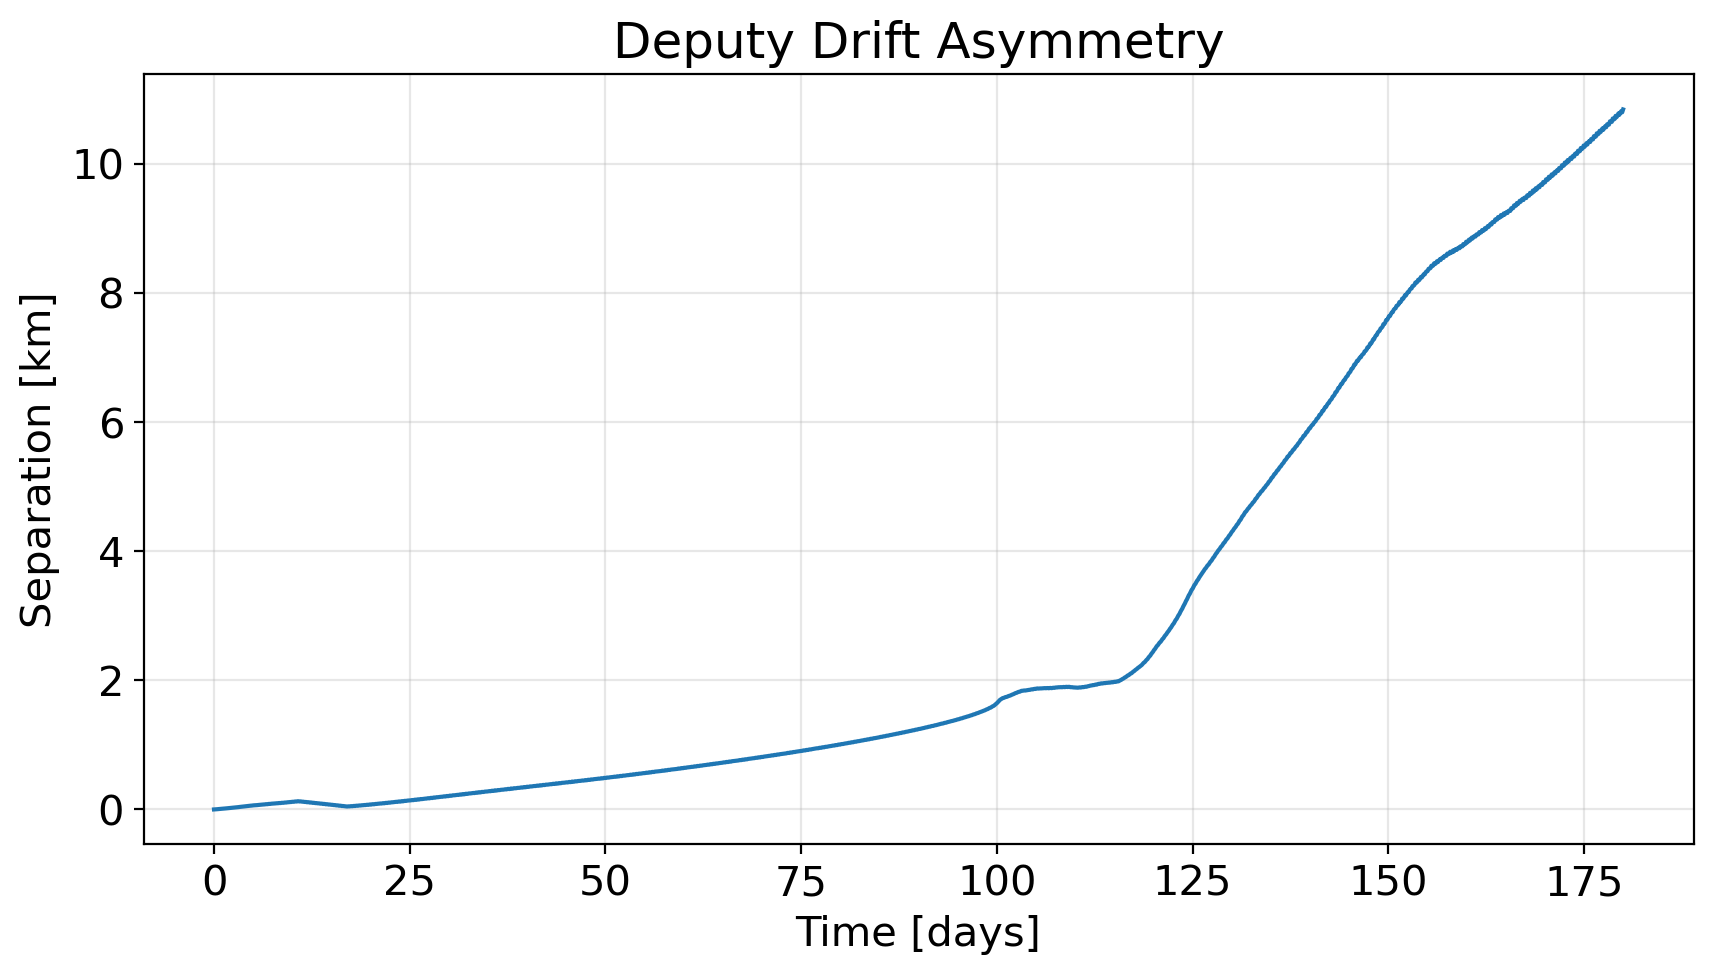
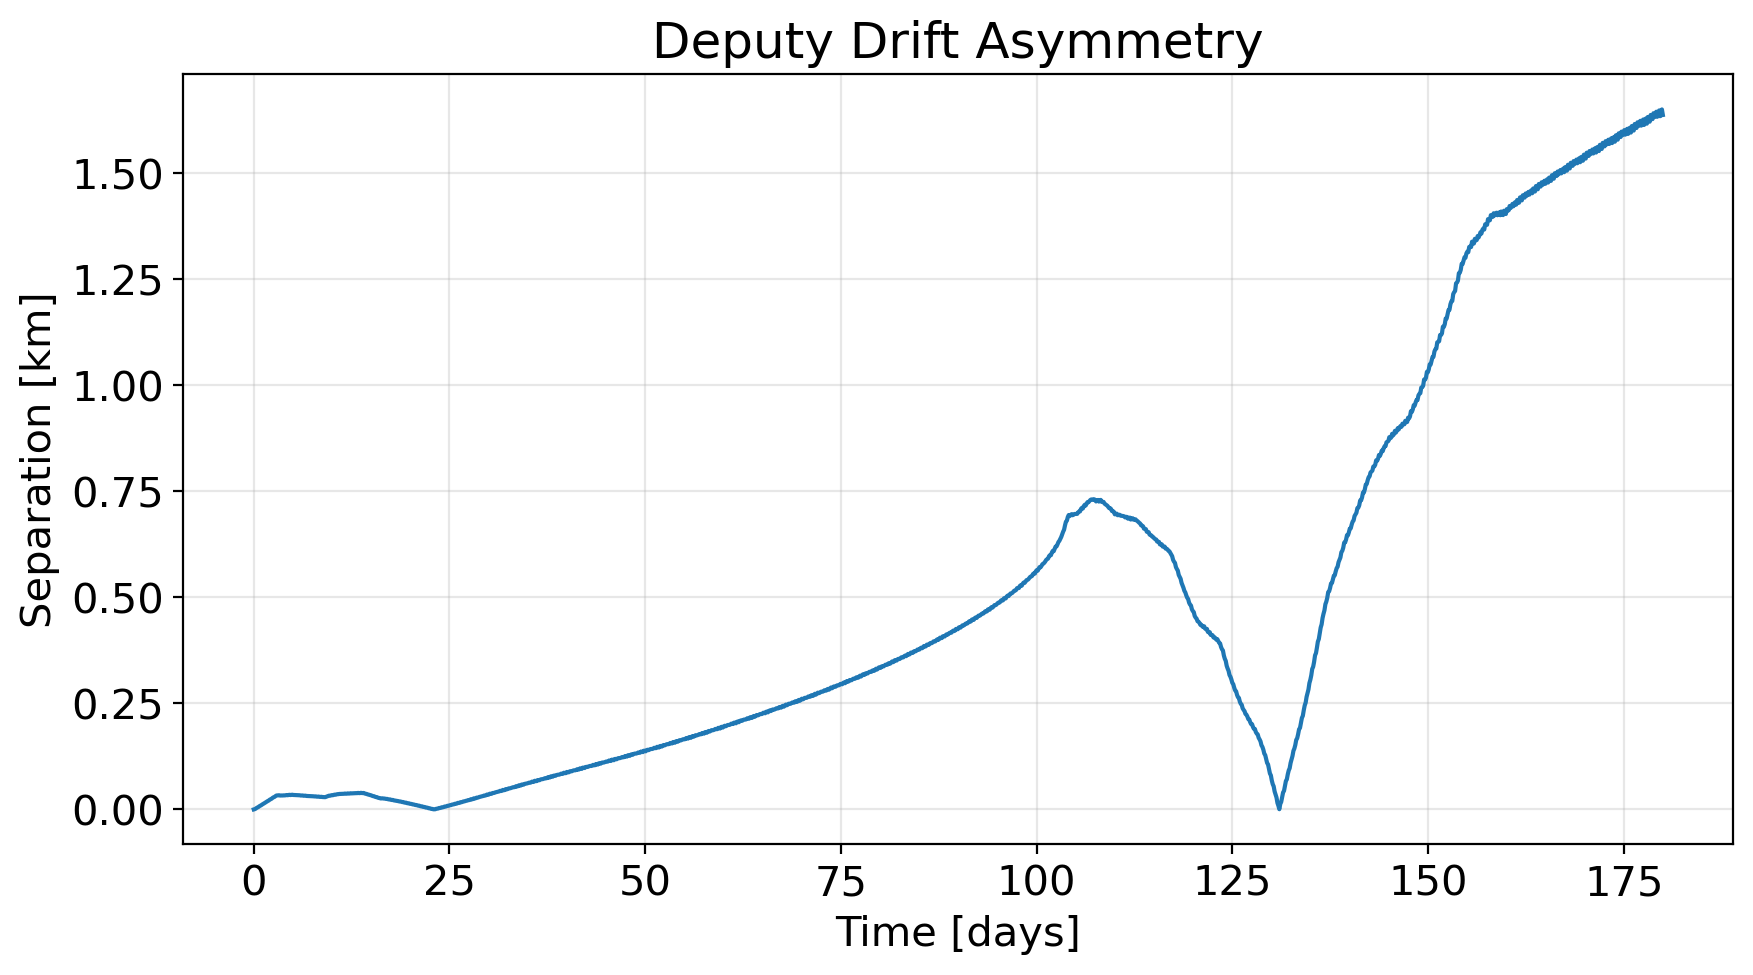
updated figures

diff --git a/term_project/src/design_B_final.py b/term_project/src/design_B_final.py
@@ -33,7 +33,7 @@ from propagate import (
 
 # ── Save directory ──
 THIS_DIR = Path(__file__).resolve().parent
-path = None#THIS_DIR.parent / "figs" / "full_force_model" / "design_B"
+path = THIS_DIR.parent / "figs" / "full_force_model" / "design_B"
 
 # ══════════════════════════════════════════════════════════════════════
 # SETUP
@@ -81,9 +81,9 @@ deputy_orbits = [apply_ROE(chief_orbit, r) for r in deputy_roes]
 # ══════════════════════════════════════════════════════════════════════
 # TIME GRID
 # ══════════════════════════════════════════════════════════════════════
-T_orb  = 2 * np.pi * float(np.sqrt(a_c**3 / mu))
-T_span = 5 * T_orb
-# T_span = 6 * 30 * 24 * 3600
+# T_orb  = 2 * np.pi * float(np.sqrt(a_c**3 / mu))
+# T_span = 5 * T_orb
+T_span = 6 * 30 * 24 * 3600
 N      = 1500
 times  = np.linspace(0, T_span, N)
 days   = times / 86400

diff --git a/term_project/src/design_A_final.py b/term_project/src/design_A_final.py
@@ -33,7 +33,7 @@ from propagate import (
 
 # ── Save directory ──
 THIS_DIR = Path(__file__).resolve().parent
-path = THIS_DIR.parent / "figs" / "full_force_model" / "design_A" / "pearls"
+path = THIS_DIR.parent / "figs" / "full_force_model" / "design_A" / "helix"
 
 # ══════════════════════════════════════════════════════════════════════
 # SETUP
@@ -77,6 +77,7 @@ chief_orbit = KeplerianOrbit(
 # DEPUTY INITIALIZATION — HELIX
 # ══════════════════════════════════════════════════════════════════════
 deputy_roes   = init_close_helix_deputies(chief_orbit, helix_radius_m=300)
+# deputy_roes     = init_string_of_pearls(chief_orbit, separation_m=500)
 deputy_orbits = [apply_ROE(chief_orbit, r) for r in deputy_roes]
 
 # ══════════════════════════════════════════════════════════════════════
